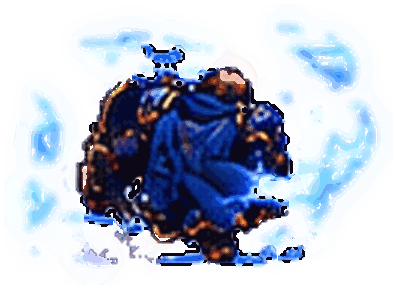
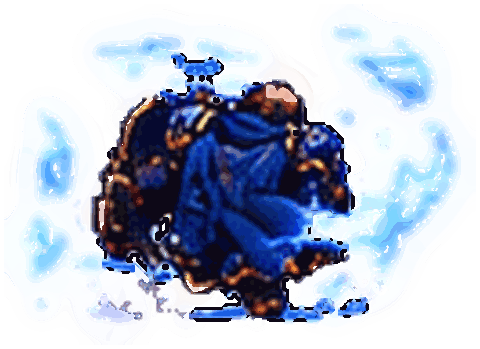
v76: esquiva do Guerreiro no tamanho do herói
Claude-Session: https://claude.ai/code/session_01YFC38PcyDKAfPNhJ7r1cKG

diff --git a/sw.js b/sw.js
@@ -1,4 +1,4 @@
-const CACHE='bd1-rpg-v75';
+const CACHE='bd1-rpg-v76';
 const ASSETS=['./','./index.html','./game.html','./lobby.js','./lobby.css','./select_plate.webp','./char_mage.webp','./char_knight.webp','./char_tank.webp','./char_assassin.webp','./panel_mage.webp','./panel_knight.webp','./panel_tank.webp','./panel_assassin.webp','./style.css','./app.js','./anim.js','./mage.js','./cleric.js','./tank.js','./knight.js','./fxsoft.js','./knight/K1_1.png','./knight/K1_10.png','./knight/K1_11.png','./knight/K1_13.png','./knight/K1_14.png','./knight/K1_15.png','./knight/K1_19.png','./knight/K1_2.png','./knight/K1_20.png','./knight/K1_21.png','./knight/K1_22.png','./knight/K1_23.png','./knight/K1_24.png','./knight/K1_25.png','./knight/K1_26.png','./knight/K1_27.png','./knight/K1_28.png','./knight/K1_29.png','./knight/K1_30.png','./knight/K1_31.png','./knight/K1_32.png','./knight/K1_35.png','./knight/K1_37.png','./knight/K1_4.png','./knight/K1_41.png','./knight/K1_42.png','./knight/K1_44.png','./knight/K1_45.png','./knight/K1_46.png','./knight/K1_49.png','./knight/K1_5.png','./knight/K1_6.png','./knight/K1_7.png','./knight/K1_8.png','./knight/K1_9.png','./knight/K2_10.png','./knight/K2_11.png','./knight/K2_13.png','./knight/K2_14.png','./knight/K2_15.png','./knight/K2_16.png','./knight/K2_17.png','./knight/K2_18.png','./knight/K2_19.png','./knight/K2_2.png','./knight/K2_20.png','./knight/K2_21.png','./knight/K2_22.png','./knight/K2_23.png','./knight/K2_24.png','./knight/K2_25.png','./knight/K2_26.png','./knight/K2_28.png','./knight/K2_29.png','./knight/K2_3.png','./knight/K2_30.png','./knight/K2_32.png','./knight/K2_33.png','./knight/K2_34.png','./knight/K2_35.png','./knight/K2_37.png','./knight/K2_38.png','./knight/K2_39.png','./knight/K2_4.png','./knight/K2_41.png','./knight/K2_42.png','./knight/K2_43.png','./knight/K2_44.png','./knight/K2_45.png','./knight/K2_46.png','./knight/K2_5.png','./knight/K2_6.png','./knight/K2_7.png','./knight/K2_8.png','./knight/K2_9.png','./knight/K3_1.png','./knight/K3_10.png','./knight/K3_11.png','./knight/K3_12.png','./knight/K3_13.png','./knight/K3_14.png','./knight/K3_15.png','./knight/K3_16.png','./knight/K3_17.png','./knight/K3_18.png','./knight/K3_2.png','./knight/K3_20.png','./knight/K3_21.png','./knight/K3_22.png','./knight/K3_23.png','./knight/K3_24.png','./knight/K3_25.png','./knight/K3_26.png','./knight/K3_27.png','./knight/K3_28.png','./knight/K3_29.png','./knight/K3_3.png','./knight/K3_30.png','./knight/K3_31.png','./knight/K3_32.png','./knight/K3_33.png','./knight/K3_34.png','./knight/K3_35.png','./knight/K3_36.png','./knight/K3_37.png','./knight/K3_38.png','./knight/K3_39.png','./knight/K3_4.png','./knight/K3_40.png','./knight/K3_41.png','./knight/K3_42.png','./knight/K3_43.png','./knight/K3_44.png','./knight/K3_45.png','./knight/K3_46.png','./knight/K3_47.png','./knight/K3_48.png','./knight/K3_5.png','./knight/K3_6.png','./knight/K3_7.png','./knight/K3_8.png','./knight/K3_9.png','./knight/fx_ice.png','./knight/fx_rocksA.png','./knight/fx_rock1.png','./knight/fx_rock2.png','./knight/fx_rock3.png','./knight/fx_rock4.png','./knight/fx_slash.png','./knight/meta.json','./clr/at1.png','./clr/at2.png','./clr/at3.png','./clr/bg1.png','./clr/bg2.png','./clr/bg3.png','./clr/bg4.png','./clr/bp1.png','./clr/bp2.png','./clr/bp3.png','./clr/br1.png','./clr/br2.png','./clr/br3.png','./clr/br4.png','./clr/br5.png','./clr/br6.png','./clr/bt1.png','./clr/bt2.png','./clr/bt3.png','./clr/bt4.png','./clr/d1.png','./clr/d2.png','./clr/d3.png','./clr/d4.png','./clr/dg1.png','./clr/dg2.png','./clr/dg3.png','./clr/dn1.png','./clr/dn2.png','./clr/dn3.png','./clr/ds1.png','./clr/ex1.png','./clr/fx_aura.png','./clr/fx_burst.png','./clr/fx_cross1.png','./clr/fx_lotus.png','./clr/fx_pillar.png','./clr/fx_pillar2.png','./clr/fx_ring1.png','./clr/fx_ring2.png','./clr/fx_ring3.png','./clr/fx_star1.png','./clr/fx_star2.png','./clr/fx_star3.png','./clr/fx_star4.png','./clr/fx_streak1.png','./clr/fx_streak2.png','./clr/fx_streak3.png','./clr/fx_sunstar.png','./clr/hat1.png','./clr/hat2.png','./clr/idle1.png','./clr/meta.json','./clr/pr1.png','./clr/pr2.png','./clr/stf.png','./clr/ult1.png','./clr/ult2.png','./clr/v1.png','./clr/v2.png','./mage3/air.png','./mage3/atk1.png','./mage3/atk2.png','./mage3/atk3.png','./mage3/bh1.png','./mage3/bh2.png','./mage3/castdef.png','./mage3/defair.png','./mage3/defearth.png','./mage3/deffire.png','./mage3/defmana.png','./mage3/defwater.png','./mage3/dodge1.png','./mage3/dodge2.png','./mage3/dodge3.png','./mage3/dodge4.png','./mage3/earth.png','./mage3/fire.png','./mage3/fx_air_swirl.png','./mage3/fx_bh_big.png','./mage3/fx_bh_big2.png','./mage3/fx_bh_small.png','./mage3/fx_bh_spikes.png','./mage3/fx_bolt.png','./mage3/fx_comet.png','./mage3/fx_cross.png','./mage3/fx_crystal.png','./mage3/fx_earth_spikes.png','./mage3/fx_fire_fall.png','./mage3/fx_mana_aura.png','./mage3/fx_orb_blue.png','./mage3/fx_orb_orange.png','./mage3/fx_orb_red.png','./mage3/fx_orbb.png','./mage3/fx_ring_floor.png','./mage3/fx_rock.png','./mage3/fx_rocks.png','./mage3/fx_star_big.png','./mage3/fx_star_small.png','./mage3/fx_water_pillar.png','./mage3/fx_whirl.png','./mage3/idle1.png','./mage3/idle2.png','./mage3/idle3.png','./mage3/idle4.png','./mage3/meta.json','./mage3/spin1.png','./mage3/spinwide.png','./mage3/stars.png','./mage3/swingf.png','./mage3/swingl.png','./mage3/swingr.png','./mage3/water.png','./anim/manifest.json','./spr_mage.webp','./spr_knight.webp','./spr_tank.webp','./spr_assassin.webp','./spr_boss.webp','./game_clean.png','./game_nohud.png','./hud_mage.png','./hud_knight.png','./hud_tank.png','./hud_assassin.png','./question_panel.png','./icon_attack.png','./icon_coin.png','./manifest.webmanifest','./potion_hp.png','./potion_mana.png','./tank/a_bub.png','./tank/a_cr.png','./tank/a_dust.png','./tank/a_hh.png','./tank/a_i1.png','./tank/a_i2.png','./tank/a_lo.png','./tank/a_rd.png','./tank/a_rl1.png','./tank/a_rl2.png','./tank/a_s1.png','./tank/a_s2.png','./tank/a_sw.png','./tank/a_swl.png','./tank/d_a1.png','./tank/d_a2.png','./tank/d_a3.png','./tank/d_a4.png','./tank/d_e1.png','./tank/d_e2.png','./tank/d_e3.png','./tank/d_e4.png','./tank/d_f1.png','./tank/d_f2.png','./tank/d_f3.png','./tank/d_h1.png','./tank/d_h2.png','./tank/d_h3.png','./tank/d_h4.png','./tank/d_i1.png','./tank/d_i2.png','./tank/d_i3.png','./tank/d_m1.png','./tank/d_m2.png','./tank/d_m3.png','./tank/d_m4.png','./tank/d_p1.png','./tank/d_p3.png','./tank/d_u1.png','./tank/d_u2.png','./tank/fx_bring.png','./tank/fx_bspike.png','./tank/fx_earth.png','./tank/fx_rockburst.png','./tank/meta.json','./tank/n1.png','./tank/n2.png','./tank/n3.png','./tank/p1.png','./tank/tA.png','./tank/tB.png','./tank/tC.png','./tank/v1.png','./tank/v2.png','./tank/v3.png','./tank/v4.png'];
 // Tudo em cache (abre instantâneo, até offline). Em segundo plano o SW confere a rede (requisição condicional, barata);
 // se algum arquivo mudou, atualiza o cache e avisa a página, que recarrega sozinha (menu) ou mostra o aviso (jogo).

diff --git a/tools/cut_knight.py b/tools/cut_knight.py
@@ -75,7 +75,7 @@ def mult(name, core, REFS):
     return _mult(name, core, REFS) * POSEFIX.get(name, SHEETFIX[name.split('_')[0]])
 def _mult(name, core, REFS):
     sh = name.split('_')[0]; rh, ra = REFS[sh]; ys = np.where(core.any(1))[0]; h = ys.max() - ys.min() + 1
-    if name in ROLL: return float(np.clip(np.sqrt(0.85 * ra / max(core.sum(), 1)), 1.0, 1.8))
+    if name in ROLL: return float(np.clip(np.sqrt(1.25 * ra / max(core.sum(), 1)), 1.0, 2.3))
     if name in UPRIGHT: return rh / h
     return float(np.clip(np.sqrt(ra / max(core.sum(), 1)), 1.0, 1.3))
 def main(only=None):

diff --git a/README.md b/README.md
@@ -299,3 +299,6 @@ Efeitos de ataque de todos os heróis suavizados: sprites de efeito desenhados b
 
 ## v75
 Guerreiro: poses de esquiva/agachado ampliadas (escala pela área do corpo).
+
+## v76
+Guerreiro: poses de esquiva/agachado em escala igual à do corpo em pé (área do corpo ×1.25).
